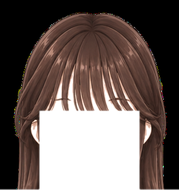
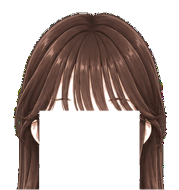
Fix poni cewek (latar hitam PNG) + hadiah peti login pasti masuk akun siswa
- assets/poni/*.png: hapus latar hitam opak (kotak hitam di kepala karakter cewek)
- firebase-sync: pastikanHadiahDiAkun() (arrayUnion, fallback setDoc merge)
- login-reward: ambil() tidak menghanguskan peti bila simpan gagal; peringatan bila belum tersinkron
- cache-bust import + sw v455

Claude-Session: https://claude.ai/code/session_019QvgU2ScabsPth6MQjeX8q

diff --git a/js/firebase-sync.js b/js/firebase-sync.js
@@ -27,7 +27,7 @@ import {
 import {
   getFirestore, doc, getDoc, setDoc, updateDoc, deleteDoc,
   collection, getDocs, onSnapshot, query, orderBy, limit, addDoc,
-  where, writeBatch, serverTimestamp, FieldPath, deleteField, documentId, runTransaction, increment
+  where, writeBatch, serverTimestamp, FieldPath, deleteField, documentId, runTransaction, increment, arrayUnion
 } from "https://www.gstatic.com/firebasejs/10.14.1/firebase-firestore.js";
 
 const firebaseConfig = {
@@ -679,6 +679,28 @@ export async function saveGachaState(state, shopIds) {
     currentSiswaDoc.karakter.inventory = Array.from(new Set([...(currentSiswaDoc.karakter.inventory || []), ...shopIds]));
     try { await updateDoc(doc(db, "siswa", currentUser.uid), { "karakter.inventory": currentSiswaDoc.karakter.inventory, "karakter.gachaInv": o.inv }); } catch (e) { console.warn("simpan hadiah gacha ke akun gagal (tersimpan di perangkat):", e.message); }
   }
+}
+
+/* Hadiah peti login: pastikan barang BENAR-BENAR masuk inventaris akun (Firestore), bukan hanya perangkat.
+ * Memakai arrayUnion (tidak menimpa barang lain). Coba updateDoc dulu, lalu setDoc merge bila dokumen belum ada.
+ * Mengembalikan true bila tersimpan di akun; false bila gagal (barang tetap aman di perangkat). */
+export async function pastikanHadiahDiAkun(ids) {
+  if (!currentUser) return false;
+  ids = (Array.isArray(ids) ? ids : [ids]).filter(x => typeof x === "string" && x);
+  if (!ids.length) return true;
+  const ref = doc(db, "siswa", currentUser.uid), gi = Array.from(new Set([...(_gLocal().inv || []), ...ids]));
+  let ok = false;
+  try { await updateDoc(ref, { "karakter.inventory": arrayUnion(...ids), "karakter.gachaInv": arrayUnion(...gi) }); ok = true; }
+  catch (e1) {
+    try { await setDoc(ref, { karakter: { inventory: arrayUnion(...ids), gachaInv: arrayUnion(...gi) } }, { merge: true }); ok = true; }
+    catch (e2) { console.warn("hadiah peti ke akun gagal:", e2.message); }
+  }
+  if (ok && currentSiswaDoc) {
+    currentSiswaDoc.karakter = currentSiswaDoc.karakter || {};
+    currentSiswaDoc.karakter.inventory = Array.from(new Set([...(currentSiswaDoc.karakter.inventory || []), ...ids]));
+    currentSiswaDoc.karakter.gachaInv = Array.from(new Set([...(currentSiswaDoc.karakter.gachaInv || []), ...gi]));
+  }
+  return ok;
 }
 
 /* ===== SAVE GACHA (file) — simpan di perangkat + Download Save / Muat Save. Yang dipakai selalu save TERBARU (cap waktu `t`). ===== */

diff --git a/js/login-reward.js b/js/login-reward.js
@@ -109,7 +109,12 @@ const LR = window.LR = {
   async ambil(id) {
     const rw = await muat(); if (!rw.pending || !rw.pending.opsi.includes(id)) return;
     const g = (FB.getGachaState ? await FB.getGachaState() : null) || { sinceEpic: 0, sinceLegend: 0, inv: [] };
-    await FB.saveGachaState({ sinceEpic: g.sinceEpic || 0, sinceLegend: g.sinceLegend || 0, inv: Array.from(new Set([...(g.inv || []), id])) }, KIND[id] === "shop" ? [id] : []);
+    try {
+      await FB.saveGachaState({ sinceEpic: g.sinceEpic || 0, sinceLegend: g.sinceLegend || 0, inv: Array.from(new Set([...(g.inv || []), id])) }, KIND[id] === "shop" ? [id] : []);
+    } catch (e) { console.warn("simpan hadiah peti:", e && e.message); window.toast && window.toast("⚠ Hadiah belum tersimpan, coba pilih lagi"); return; }   // peti tetap terbuka, tidak hangus
+    // Pastikan benar-benar masuk akun siswa (bukan hanya perangkat ini); gagal → peringatan, barang tetap tersimpan di perangkat
+    let diAkun = true; try { diAkun = FB.pastikanHadiahDiAkun ? await FB.pastikanHadiahDiAkun([id]) : true; } catch (e) { diAkun = false; }
+    if (!diAkun) { try { window.toast && window.toast("⚠ Hadiah tersimpan di perangkat ini, belum tersinkron ke akun. Buka lagi saat online."); } catch (e) {} }
     await FB.saveLoginReward({ ...rw, pending: null });
     try { if (window.SHIROSE_THEME && KIND[id] === "theme") { const g2 = await FB.getGachaState(); window.SHIROSE_THEME.setOwned(g2.inv || []); } } catch (e) {}
     const r = rarOf(id), c = RAR[r][1];

diff --git a/index.html b/index.html
@@ -1567,7 +1567,7 @@ import { allShopItems } from "./js/shop-seed.js?v=20261119i";
 import * as KV from "./js/kanji-vocab.js?v=20261116n";   // kosakata berbasis Kanji (N5-N1)
 import { ACHIEVEMENTS } from "./js/achievements.js";
 // ?v=20261108h — cache-buster, lihat catatan sama di teacher.html.
-import * as FB from "./js/firebase-sync.js?v=20261122b";
+import * as FB from "./js/firebase-sync.js?v=20261124a";
 import { renderChoukaiJLPT, displayBar, applyDisplayPrefs } from "./js/choukai-jlpt.js?v=20261119k";
 import SV from "./js/voice.js?v=20261109c";
 import { initSaveData } from "./js/save-data.js?v=20261118a";
@@ -1582,7 +1582,7 @@ import { MENSETSU_ROUTES, MENSETSU_PUBLIC, initMensetsu } from "./js/mensetsu.js
 import { DECK_ROUTES, DECK_PUBLIC, initDeckSiswa, bolehHafalan } from "./js/deck-siswa.js?v=20261124h";
 window.bukaHafalan = async () => { if (await bolehHafalan()) route("anki"); else toast("🔒 Menu Hafalan dikunci guru. Hubungi guru untuk membuka akses."); };
 const GACHA_ON = false;   // gacha DIHAPUS (Nov 2026) — barang langka kini dari Peti Reward Login
-import { initLoginReward, cekLoginReward } from "./js/login-reward.js?v=20261119o";
+import { initLoginReward, cekLoginReward } from "./js/login-reward.js?v=20261124a";
 initJlpt(FB);
 initKana(FB);
 initSsw(FB);

diff --git a/sw.js b/sw.js
@@ -14,7 +14,7 @@
 // benar/salah/kosong, navigasi pembahasan per-soal dengan grid jump dan
 // tombol prev/next, tombol "Ulangi Ujian".
 // v405 — Konfirmasi keluar sesi hafalan (JLPT/JFT/SSW, Kana, Mensetsu flashcard).
-const CACHE = "shirose-nihongo-v456";
+const CACHE = "shirose-nihongo-v457";
 const AUDIO = "shirose-audio-v1";   // voice pack offline (tidak dihapus saat update)
 const KVG = "shirose-kvg-v1";       // goresan KanjiVG yang pernah dibuka (offline; tidak dihapus saat update)
 const CORE = [
